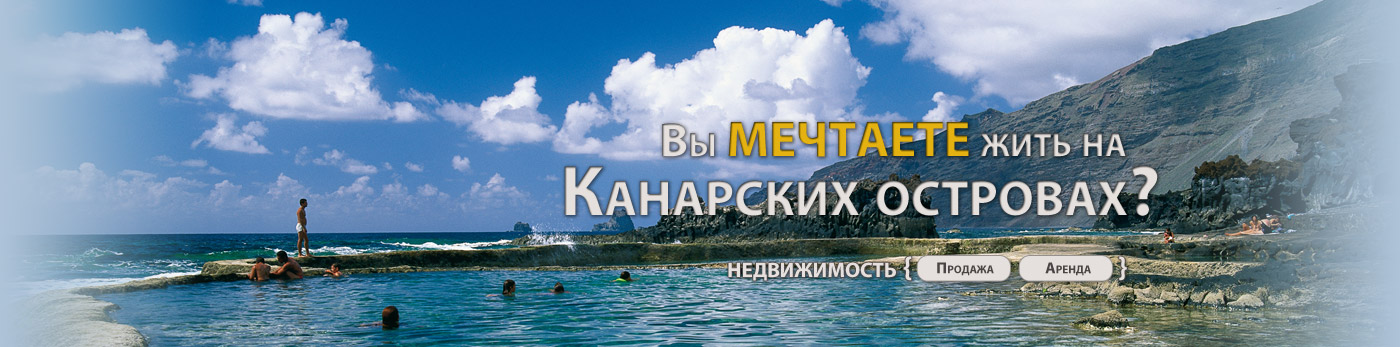
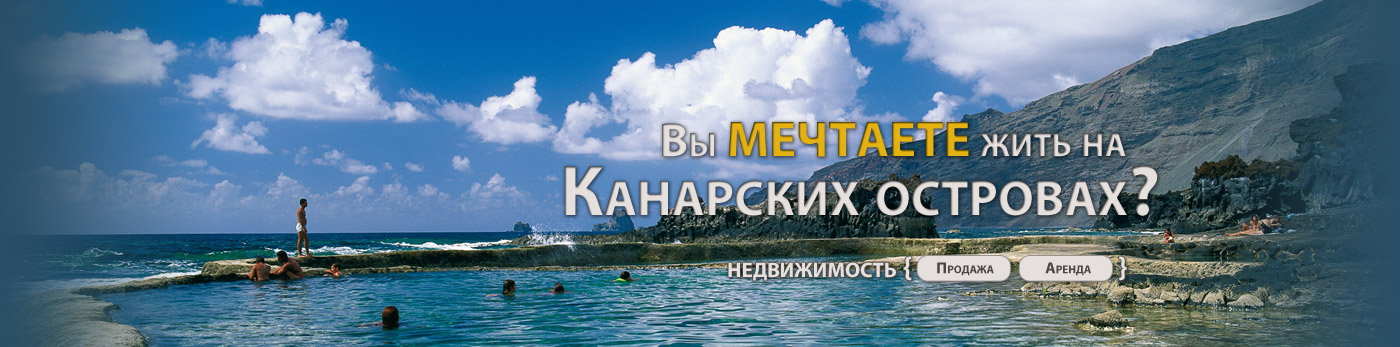
slideshow on main page

Changed region(s): [[0.86, 0.0, 1.0, 1.0], [0.0, 0.0, 0.1229, 1.0]]

diff --git a/css/style-new.css b/css/style-new.css
@@ -105,7 +105,7 @@ nav { height: 50px; border: 1px solid #ae8911;  border-style: solid none; backgr
 .main-nav li a:hover { text-decoration: underline; }
 .main-nav.right li a { margin: 13px 0 0 9px; }
 
-.cycle-blocks { background: url("../img/bgs/slide-1.jpg") no-repeat center top #adc3d8; height: 347px; margin: 0; padding: 0; width: 100%; }
+.cycle-blocks { background: url("../img/bgs/slide-1.jpg") no-repeat center top #2a4f66; height: 347px; margin: 0; padding: 0; width: 100%; }
 .slider-links { position: relative; }
 .slider-links a { background: url("../img/sprites.png") no-repeat; position: absolute; top: 255px; display: block; text-indent: -9999px; }
 	#property-sale { background-position: -149px -121px; width: 99px; height: 30px; left: 687px; }
